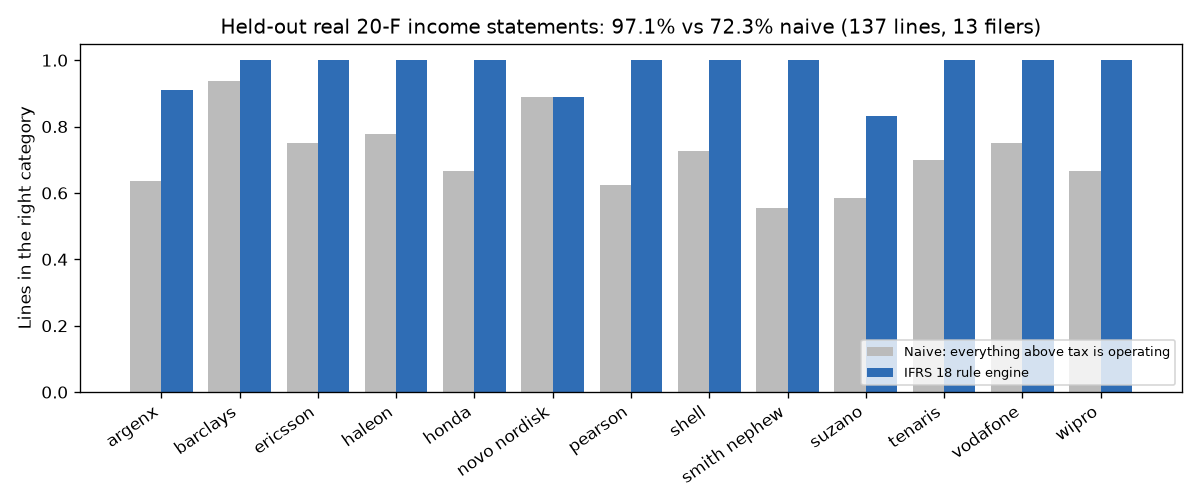
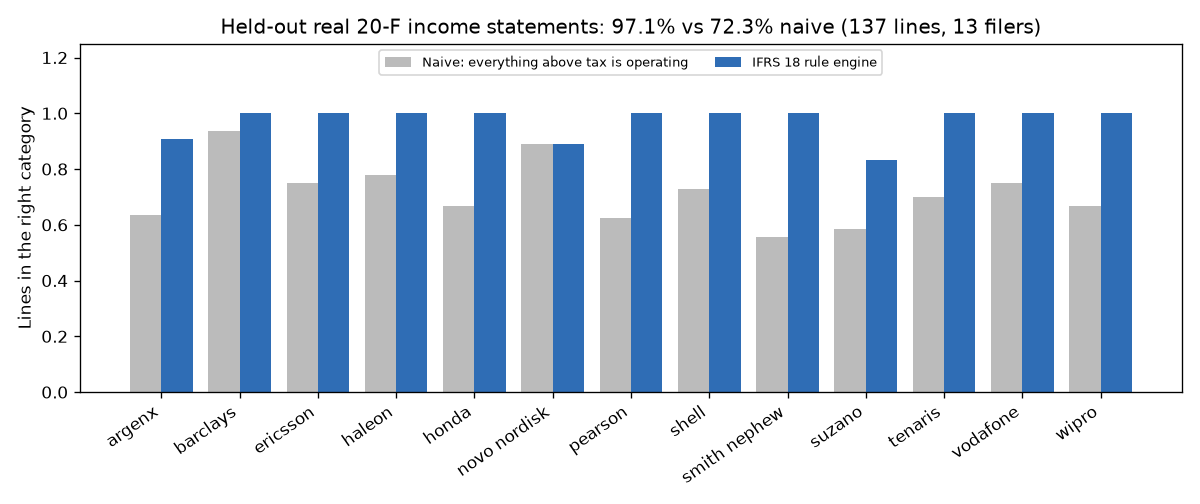
Move figure legend clear of the bars

diff --git a/scripts/evaluate.py b/scripts/evaluate.py
@@ -60,12 +60,12 @@ def main() -> int:
     ax.bar([i - 0.2 for i in x], naive, 0.4, label="Naive: everything above tax is operating", color="#bbbbbb")
     ax.bar([i + 0.2 for i in x], acc, 0.4, label="IFRS 18 rule engine", color="#2f6db5")
     ax.set_xticks(list(x), [s.replace("_", " ") for s in slugs], rotation=35, ha="right")
-    ax.set_ylim(0, 1.05)
+    ax.set_ylim(0, 1.25)
     ax.set_ylabel("Lines in the right category")
     h = sums["heldout"]
     ax.set_title(f"Held-out real 20-F income statements: {h['accuracy']:.1%} vs {baseline_accuracy(results, 'heldout'):.1%} naive "
                  f"({h['lines']} lines, {h['statements']} filers)")
-    ax.legend(loc="lower right", fontsize=8)
+    ax.legend(loc="upper center", ncol=2, fontsize=8)
     fig.tight_layout()
     fig.savefig(ROOT / "docs" / "accuracy.png", dpi=120)
     print("\n".join(out[:8]))
